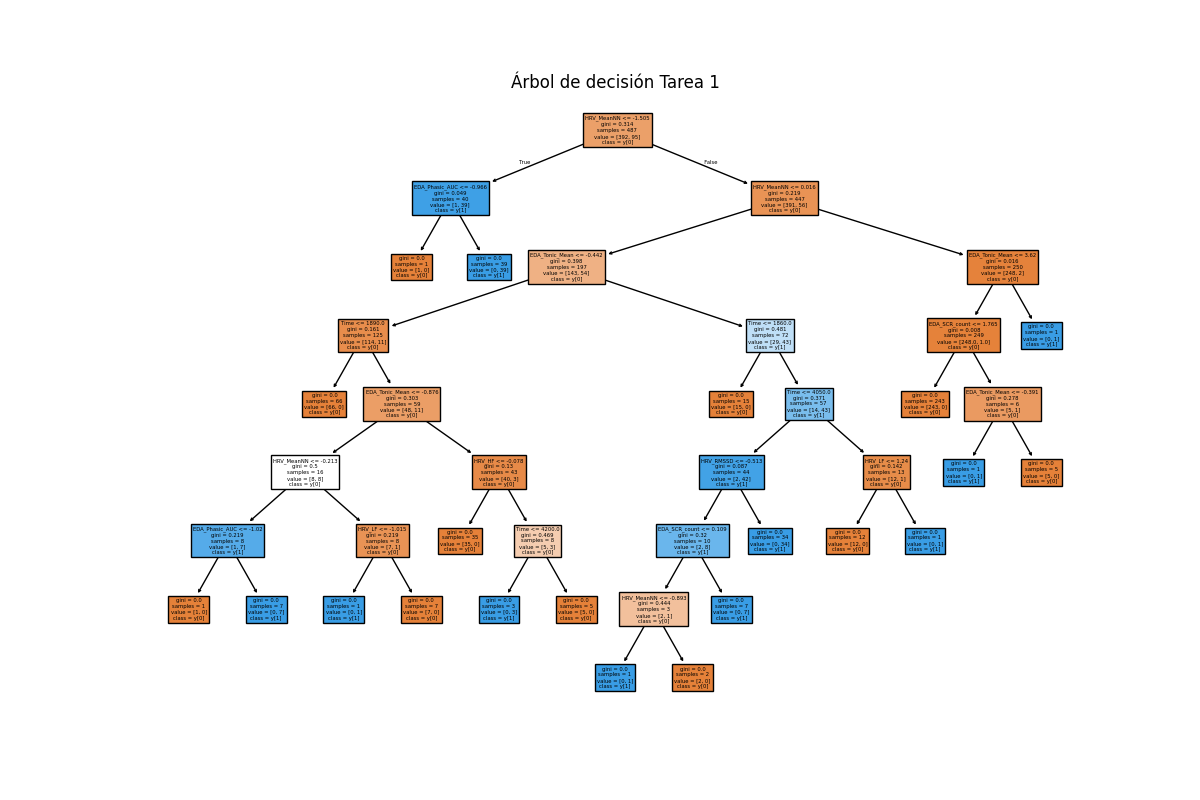
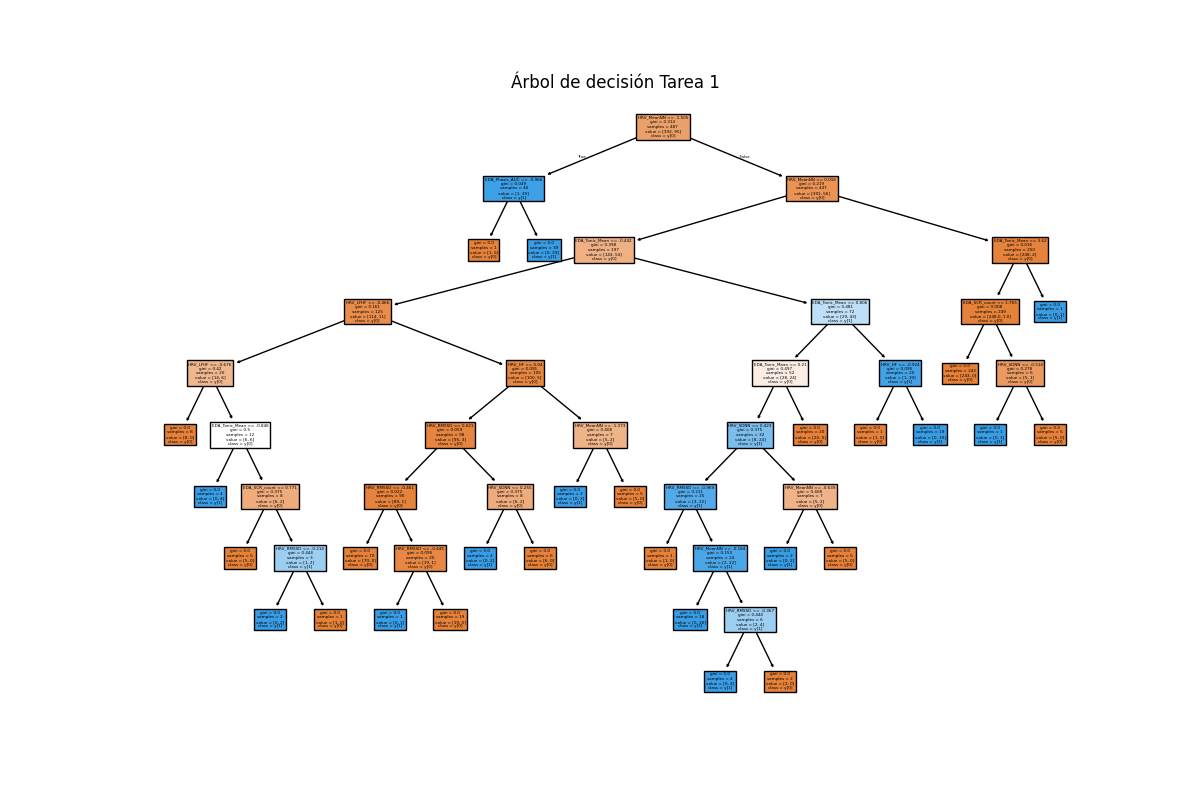
excluyendo columnas subject time

diff --git a/ejemploPlantilla.py b/ejemploPlantilla.py
@@ -11,10 +11,11 @@ from plantilla import (
 )
 
 # --- Cargar y dividir ---
-ruta = r"D:\UTM\DECIMO\reconocimiento_de_patrones\parcial2\proyectoFase2\reconocimientoDePatrones\programas_wesad\wesad_preprocesado_listo.csv"
-X, y = cargar_dataset(ruta, columna_target="Label")
-if 'Subject' in X.columns:
-    X = X.drop(columns=['Subject'])
+ruta = r"./programas_wesad/wesad_preprocesado_listo.csv"
+X, y = cargar_dataset(ruta, columna_target="Label",
+columnas_a_excluir=['Subject', 'Time']
+)
+
 X_tr, X_te, y_tr, y_te = dividir_train_test(X, y)
 
 # Acumulador de métricas
